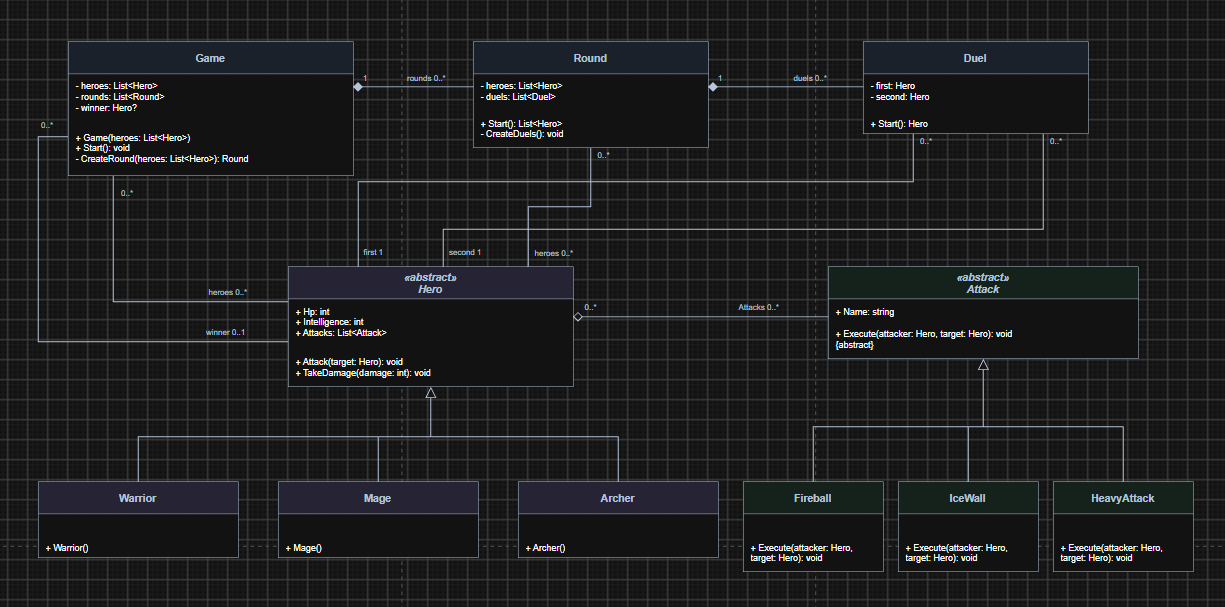
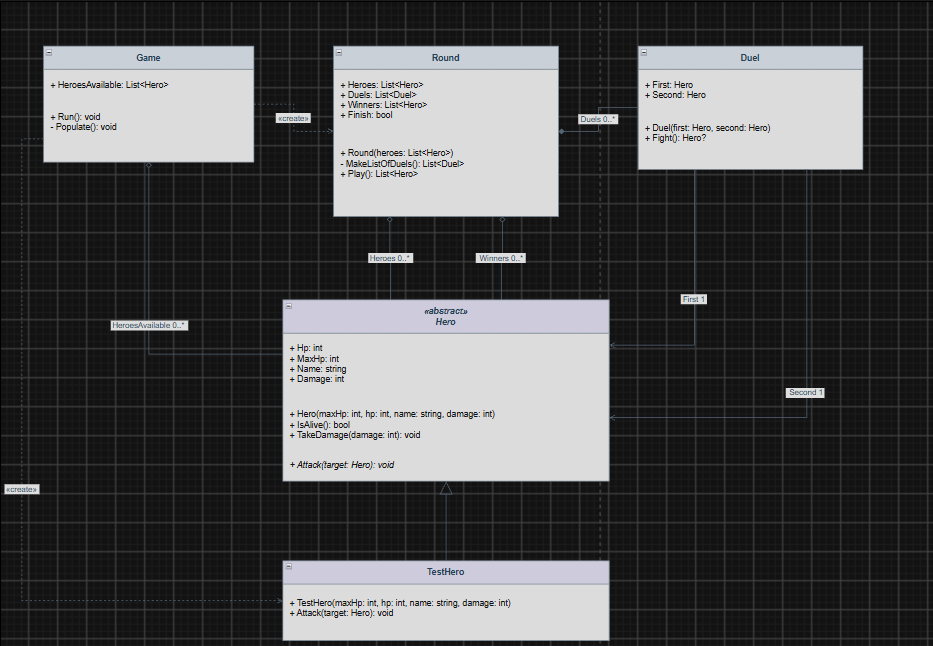
Complete stage 4: RPG Saga basic structures

diff --git a/rpgsaga/src/Round.cs b/rpgsaga/src/Round.cs
@@ -1,0 +1,65 @@
+class Round
+{
+
+    public List<Hero> Heroes {get; private set;} = new();
+    public List<Duel> Duels {get; private set;} = new();
+    public List<Hero> Winners {get; private set;} = new();
+    public bool Finish {get; private set;}
+
+    public Round(List<Hero> heroes)
+    {
+        Heroes = new List<Hero>(heroes);
+        Duels = MakeListOfDuels();
+        Finish = false;
+    }
+    
+    private List<Duel> MakeListOfDuels()
+    {
+        List<Hero> availableHeroes = new(Heroes);
+        List<Duel> duels = new();
+        while (availableHeroes.Count > 0)
+        {
+        if (availableHeroes.Count == 1)
+        {
+            Winners.Add(availableHeroes[0]);
+            Console.WriteLine($"Для бойца {availableHeroes[0].Name} не найдено пары, он автоматически проходит дальше.");
+            availableHeroes.RemoveAt(0);
+            break;
+        }    
+            int index1 = Random.Shared.Next(availableHeroes.Count);
+        Hero first = availableHeroes[index1];
+        availableHeroes.RemoveAt(index1);
+        
+        int index2 = Random.Shared.Next(availableHeroes.Count);
+        Hero second = availableHeroes[index2];
+        availableHeroes.RemoveAt(index2);
+
+        duels.Add(new Duel(first, second));
+        }
+        Console.WriteLine($"Создано {duels.Count} дуэлей");
+        return duels;
+    }
+
+    public List<Hero> Play()
+    {
+        if (!Finish)
+        {
+            if (Duels.Count != 0)
+            {
+                foreach (Duel duel in Duels)
+                {
+                Hero? winner = duel.Fight();
+                if (winner != null)
+                {
+                Winners.Add(winner);
+                } else
+                {
+                Console.WriteLine("Оба героя мертвы, ошибочная дуэль");
+                }
+                }
+            }
+        }
+        Finish = true;
+        return Winners;
+    }
+}

diff --git a/rpgsaga/src/Game.cs b/rpgsaga/src/Game.cs
@@ -1,0 +1,40 @@
+class Game
+{
+
+    public List<Hero> HeroesAvailable {get; private set;} = new List<Hero>();
+    public void Run()
+    {
+        Console.WriteLine("RPGSaga succecfully started!");
+        Populate();
+        int number = 1;
+        while (HeroesAvailable.Count > 1)
+        {
+        Console.WriteLine($"===== Раунд {number} =====\nВошло на ринг: {HeroesAvailable.Count}");
+        Round round = new(HeroesAvailable);
+        List<Hero> winners = round.Play();
+        HeroesAvailable = winners;
+        number++;
+        if (HeroesAvailable.Count > 1)
+            {
+                Console.WriteLine($"В следующий раунд прошли: {HeroesAvailable.Count}");
+            }
+        }
+        if (HeroesAvailable.Count == 1)
+        {
+            Console.WriteLine($"Турнир успешно завершен!\nПобедитель: {HeroesAvailable[0].Name}!");
+        }
+        else if (HeroesAvailable.Count == 0)
+        {
+            Console.WriteLine($"Все герои сражались стойко и погибли доказав свою упертость и силу воли. Победителей нет.");
+        }
+    }
+
+    private void Populate()
+    {
+        for (int i = 0; i < 15; i++)
+        {
+            HeroesAvailable.Add(new TestHero(100, 100, "Bot", 20));
+        }
+        Console.WriteLine($"Успешно создано героев: {HeroesAvailable.Count}");
+    }
+}

diff --git a/rpgsaga/src/Duel.cs b/rpgsaga/src/Duel.cs
@@ -1,0 +1,54 @@
+class Duel
+{
+    public Hero First { get; private set; }
+    public Hero Second { get; private set; }
+    public Duel(Hero first, Hero second)
+    {
+        First = first;
+        Second = second;
+    }
+
+    public Hero? Fight()
+    {
+        if (First.IsAlive() && Second.IsAlive())
+        {
+            while (First.IsAlive() && Second.IsAlive())
+            {
+                switch (Random.Shared.Next(2))
+                {
+                    case 0:
+                    First.Attack(Second);
+                    if (Second.IsAlive())
+                        {
+                            Second.Attack(First);
+                        }
+                    break;
+                    case 1:
+                    Second.Attack(First);
+                    if (First.IsAlive())
+                        {
+                            First.Attack(Second);
+                        }
+                    break;
+                }
+            }
+            if (First.IsAlive())
+            {
+                return First;
+            }
+            else
+            {
+                return Second;
+            }
+        } else if (First.IsAlive())
+        {
+            return First;
+        } else if (Second.IsAlive())
+        {
+            return Second;
+        } else
+        {
+            return null;
+        }
+    }
+}

diff --git a/rpgsaga/src/Hero.cs b/rpgsaga/src/Hero.cs
@@ -1,0 +1,24 @@
+abstract class Hero {
+    
+    public int Hp {get; private set;}
+    public int MaxHp {get; private set;}
+    public string Name {get; private set;}
+    public int Damage{get; private set;}
+
+    public Hero(int maxHp, int hp, string name, int damage)
+    {
+        MaxHp = maxHp;
+        Hp = hp;
+        Name = name;
+        Damage = damage;
+    }
+
+    public bool IsAlive() => Hp > 0;
+
+    public abstract void Attack(Hero targer);
+
+    public void TakeDamage(int damage)
+    {
+        Hp -= damage;
+    }
+}

diff --git a/rpgsaga/src/TestHero.cs b/rpgsaga/src/TestHero.cs
@@ -1,0 +1,11 @@
+class TestHero : Hero
+{
+    public TestHero(int maxHp, int hp, string name, int damage) : base(maxHp, hp, name, damage)
+    {
+    }
+
+    public override void Attack(Hero target)
+    {
+        target.TakeDamage(Damage);
+    }
+}

diff --git a/rpgsaga/src/Program.cs b/rpgsaga/src/Program.cs
@@ -1,1 +1,8 @@
-Console.WriteLine("RPGSAGA STARTED HERE");
+class Program
+{
+    public static void Main(string[] args)
+    {
+        Game game = new();
+        game.Run();
+    }
+}
